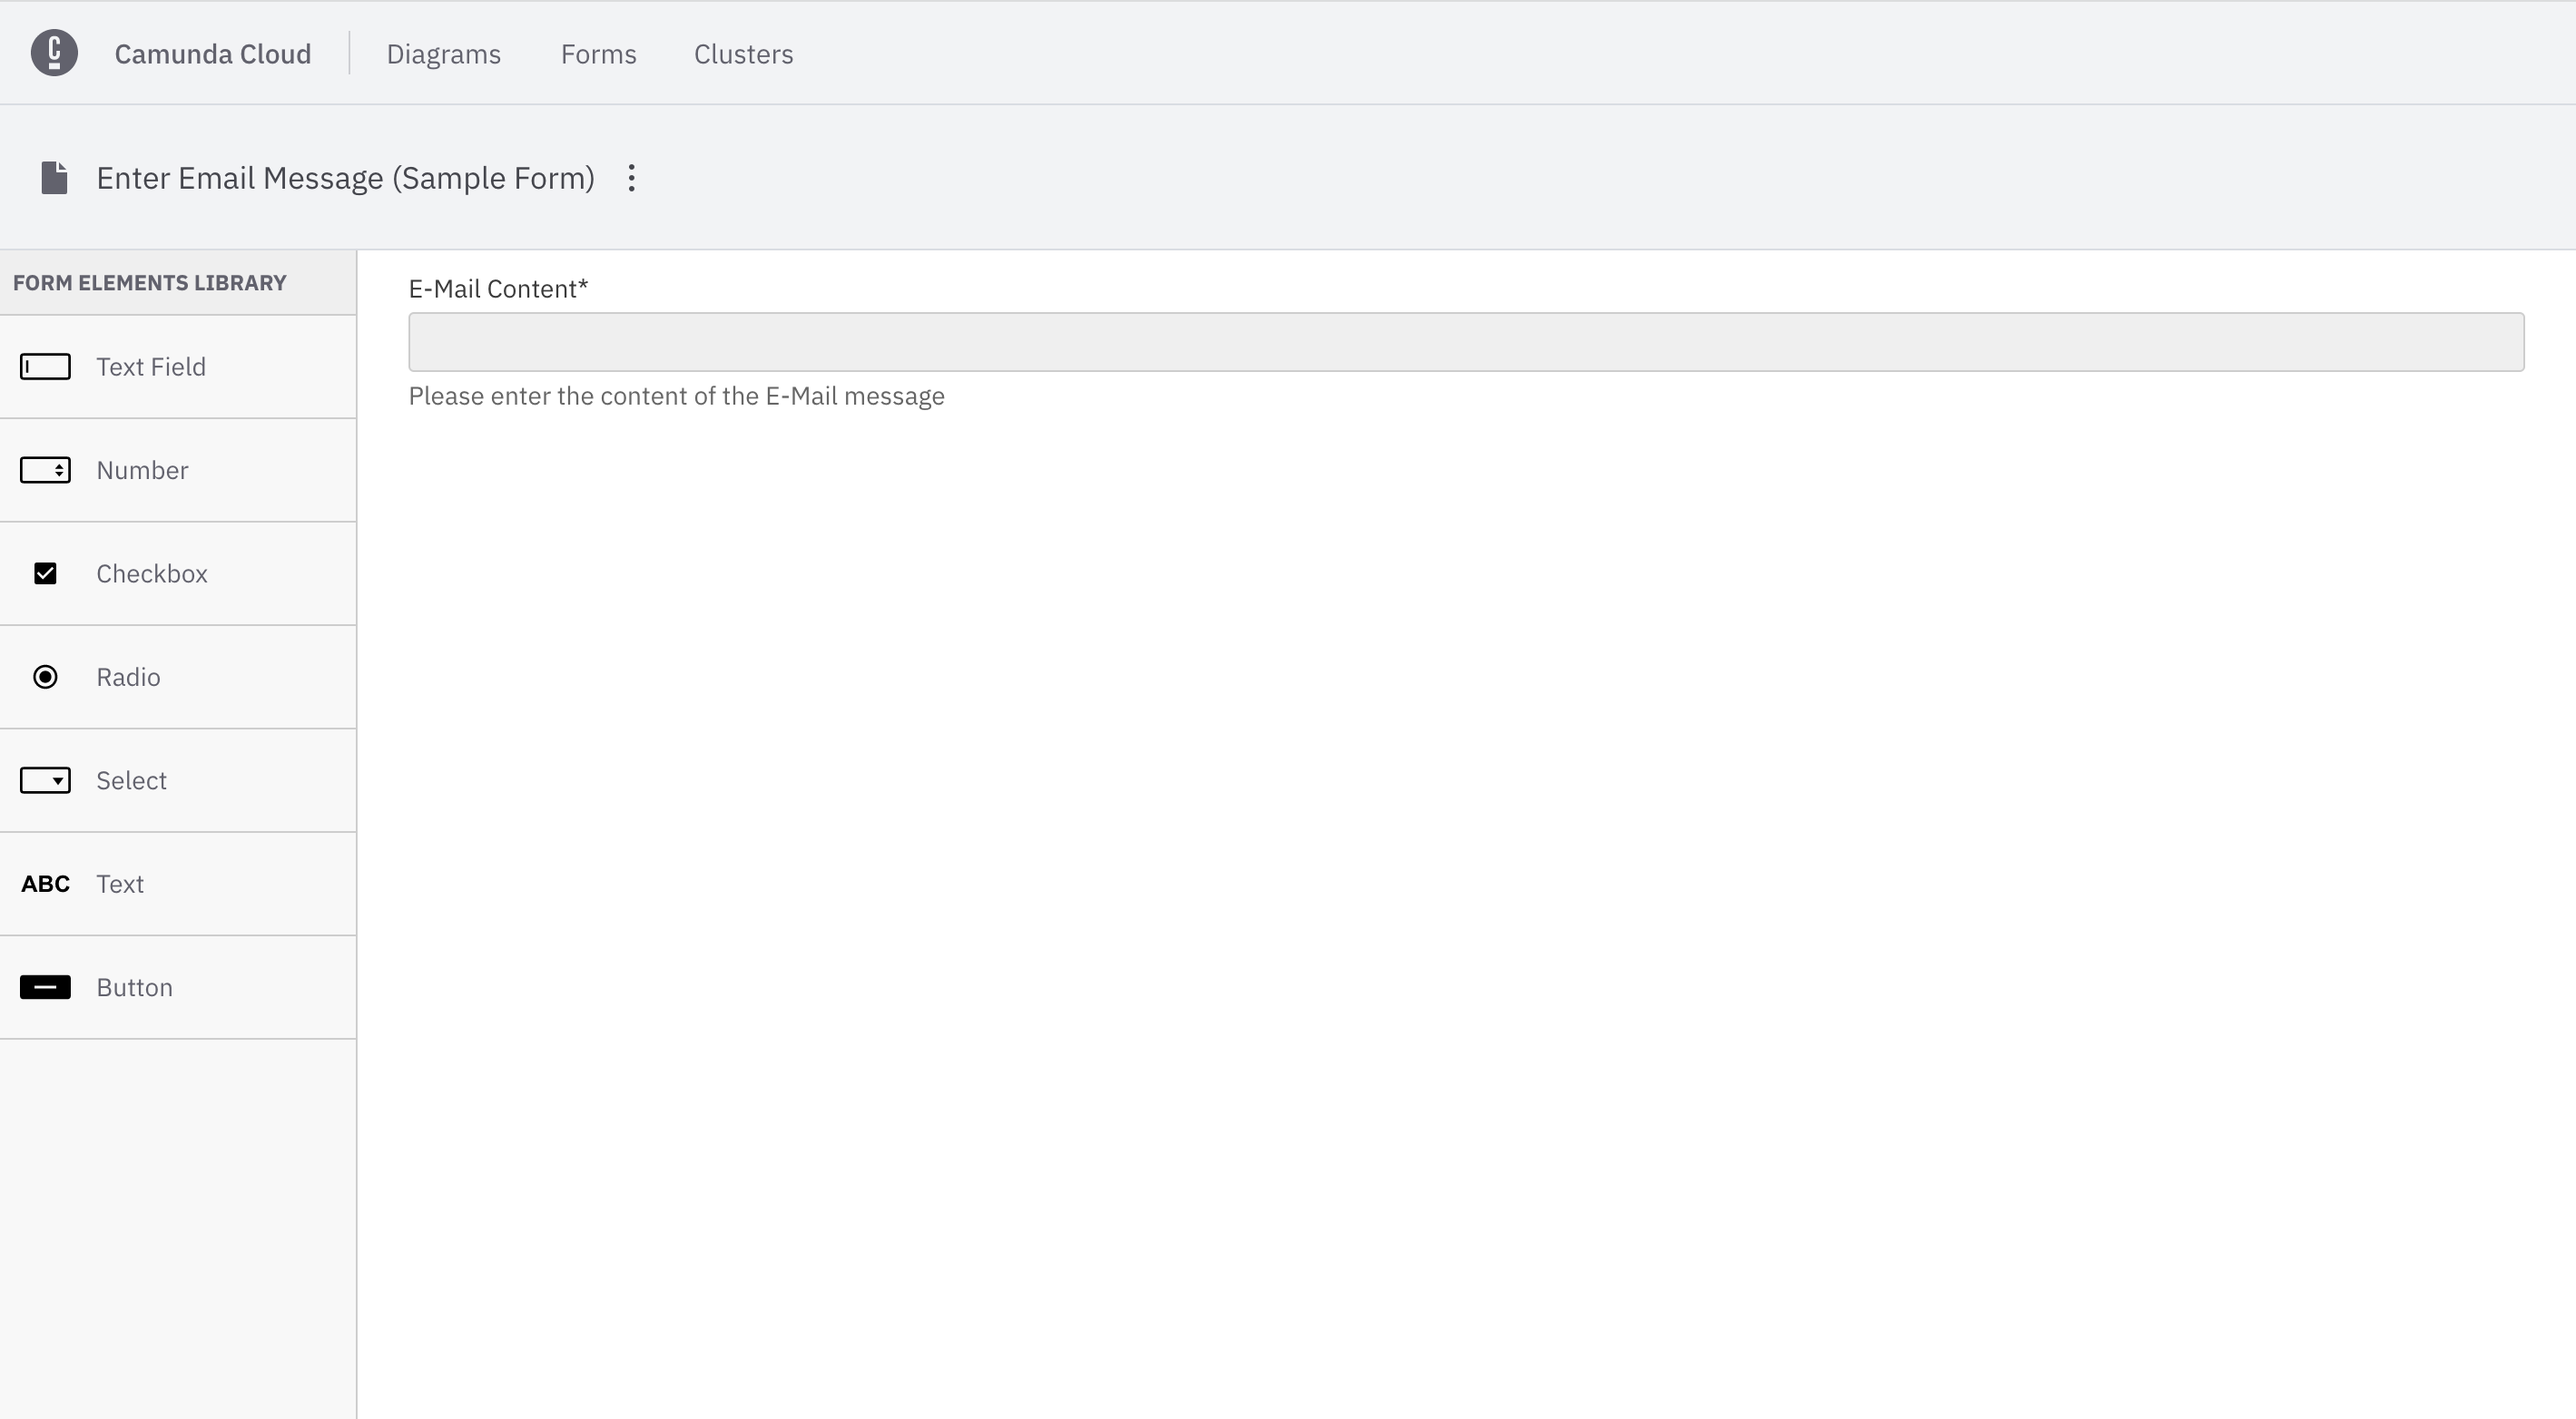
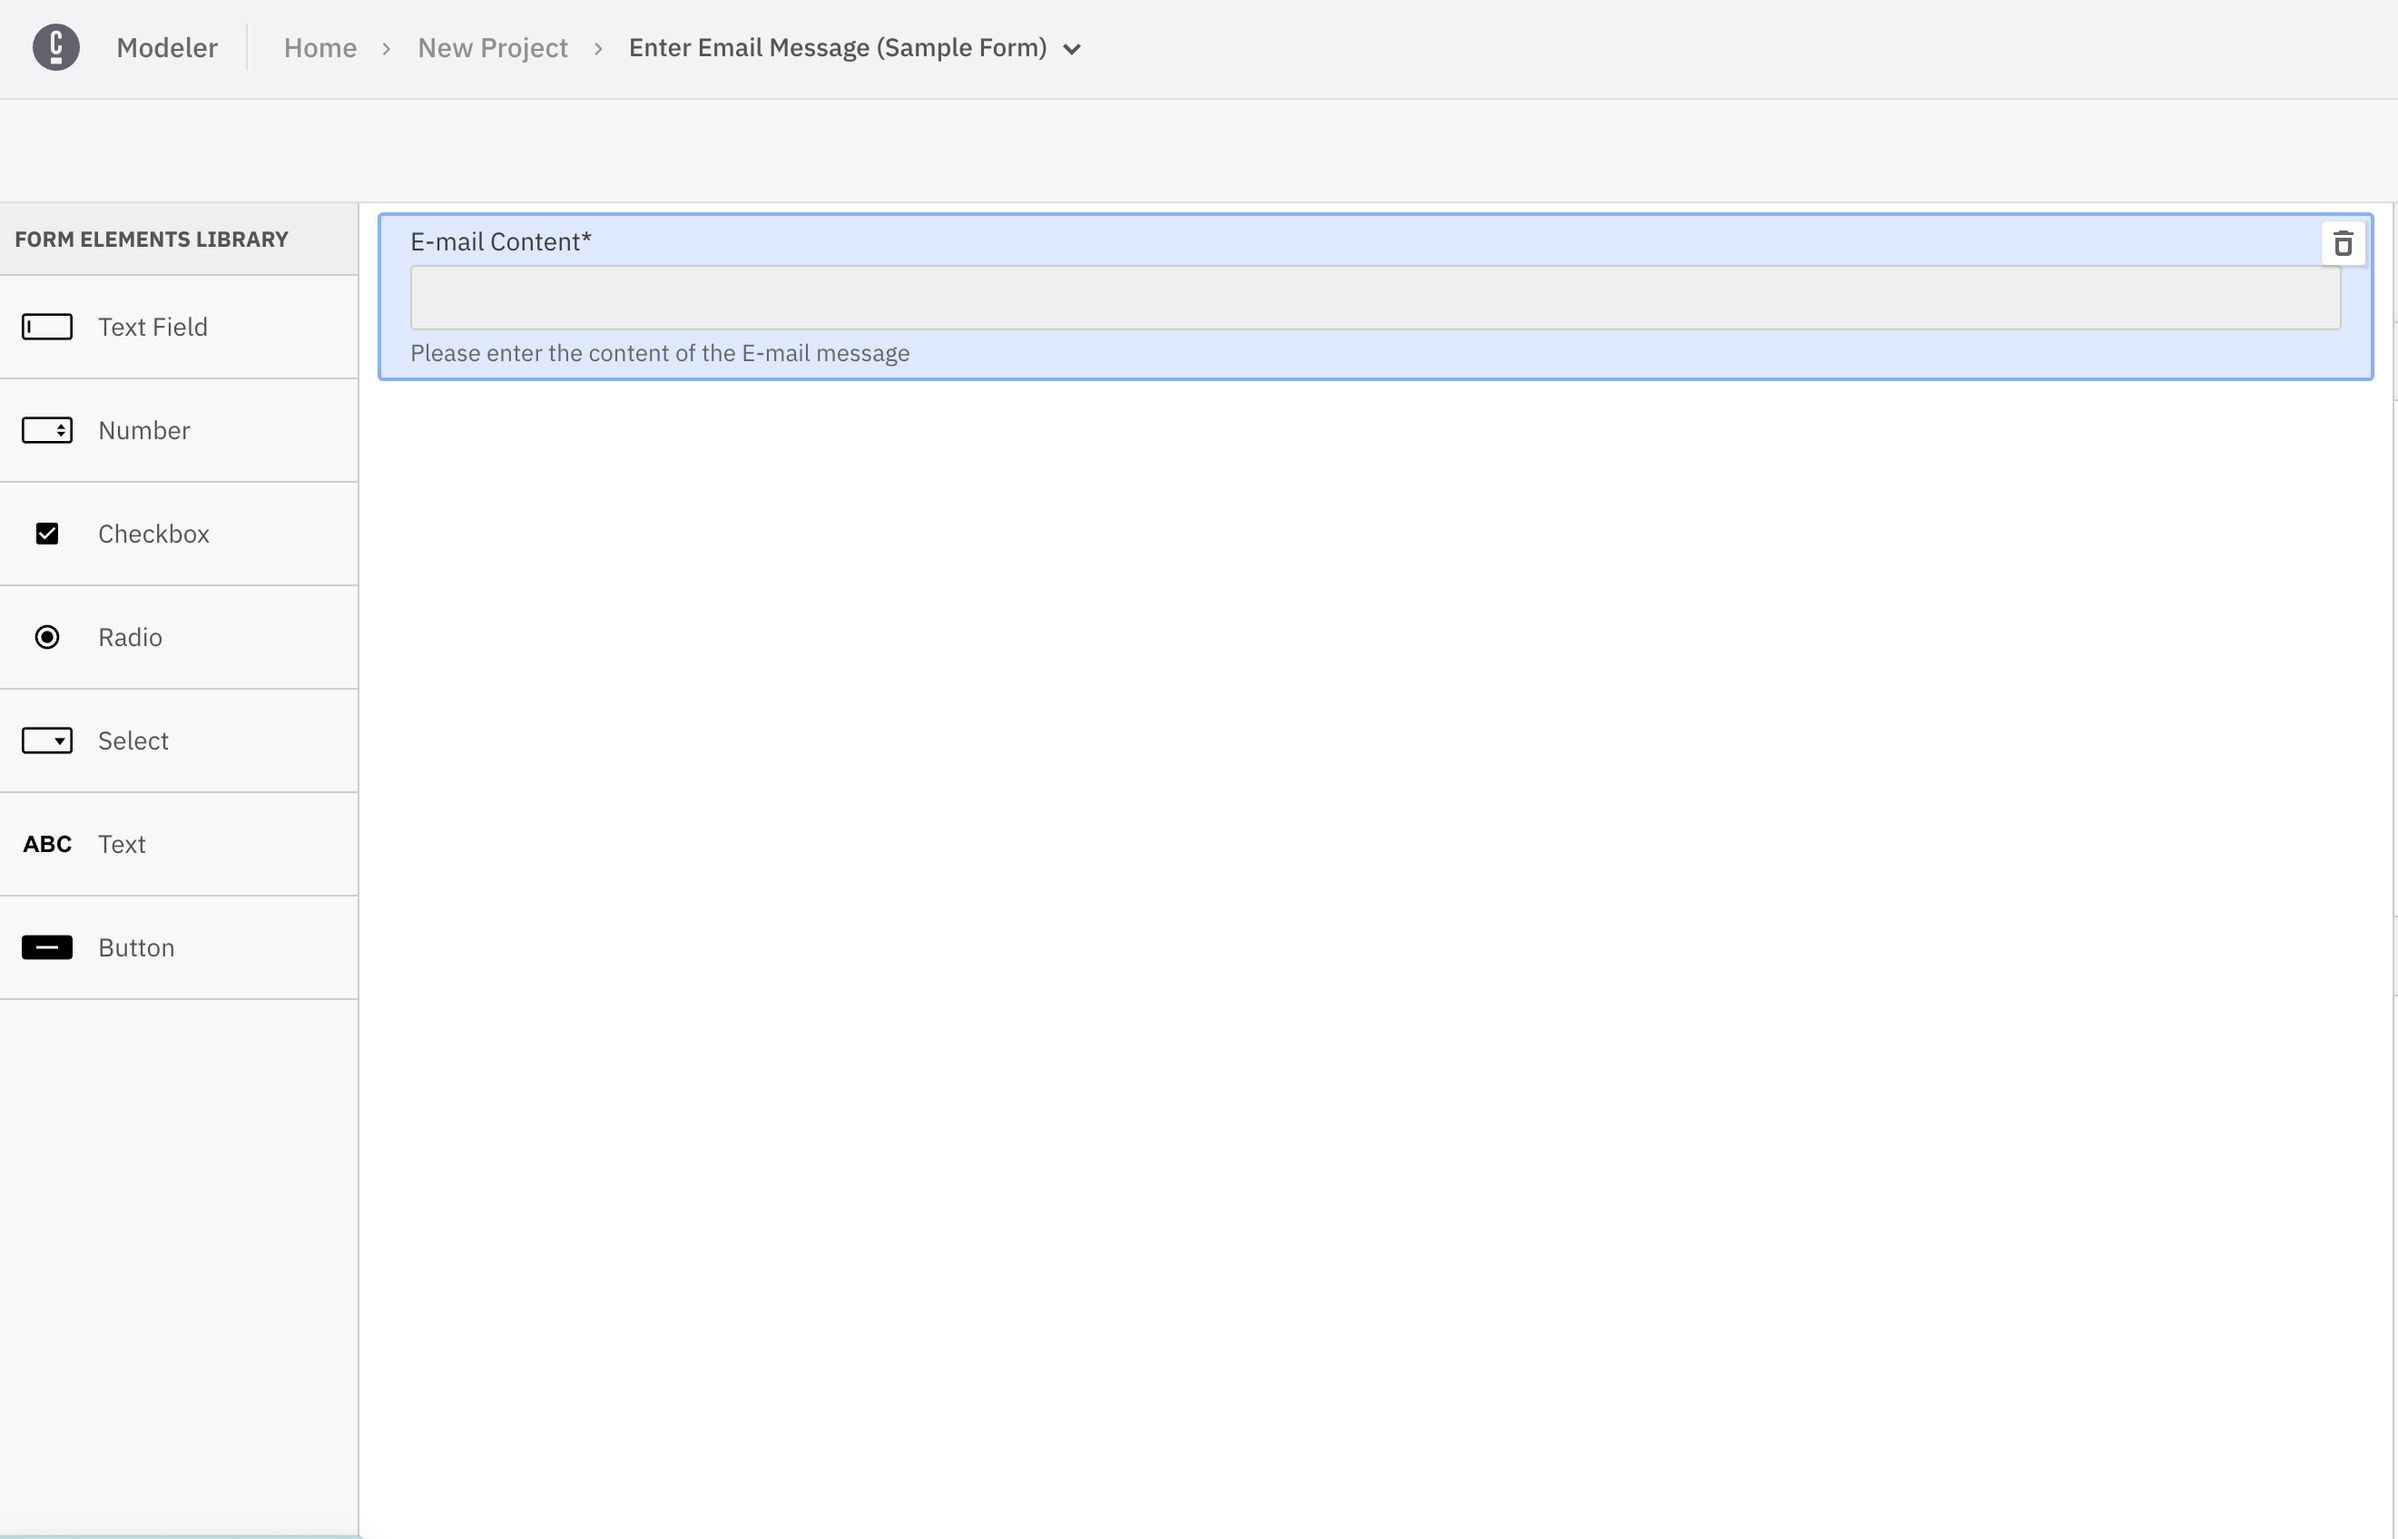
docs(web-modeler): rewrite utilizing-forms.md page and use updated imgs

diff --git a/docs/guides/utilizing-forms.md b/docs/guides/utilizing-forms.md
@@ -22,12 +22,13 @@ While you can incorporate Camunda Forms solely within Camunda Cloud, you can als
 
 To start building a form, log in to your [Camunda Cloud](./getting-started/create-camunda-cloud-account.md) account or open [Desktop Modeler](./components/modeler/about.md) and take the following steps:
 
-1. Click on the **Forms** tab at the top of the page or open the **File** menu in Modeler.
-2. Click the blue **Create New Form** button.
+1. Click on the **Modeler** tab at the top of the page or alternatively open the **File** menu in Desktop Modeler.
+2. Open any project from your Web Modeler home view
+3. Click the blue **New** button and choose **Form**
 
 ### Build your form
 
-Now you can start to build your Camunda form. First, let's name our form by clicking the three vertical dots next to the text reading **New Form** in the top left corner of the page. Select **Rename** to give your form a new name. In this example, we'll build a form to help with a task in obtaining an email message.
+Now you can start to build your Camunda form. Right after creating your form you can name it by simply replacing the **New Form** text with the name of your choice. In this example, we'll build a form to help with a task in obtaining an email message.
 
 ![form email example](./img/form-email-example.png)
 
@@ -49,7 +50,7 @@ Refer to the [Camunda Forms reference material](https://docs.camunda.org/manual/
 
 ### Save your form
 
-To save your form in Camunda Cloud, click the blue **Save** button in the top right corner of the page.
+To save your form in Camunda Cloud, you don't have to do anything. The Web Modeler will autosave every change you make.
 
 To save your form in Camunda Platform, click **File > Save File As...** in the top-level menu. Select a location on your file system to store the form as `.form` file. You can load that file again by clicking **File > Open File...**.
 
@@ -61,15 +62,15 @@ Next, let's implement a task form into a diagram. In tandem, we can connect your
 For Camunda Platform, refer to the [User Task Forms guide](https://docs.camunda.org/manual/latest/user-guide/task-forms/#camunda-forms) to learn how to implement a task form in your application.
 :::
 
-Click on the **Forms** tab in Camunda Cloud to view a list of all the forms you've created.
+Click on the **Modeler** tab at the top of the page and open any project from your Web Modeler home view.
 
 Take the following steps:
 
-1. Click the **Diagrams** tab at the top of the screen.
-2. Select the diagram where you'd like to apply your form.
-3. Select the user task requiring the help of a form.
-4. On the right side of the page, select the **Form** tab.
-5. Click **SELECT FORM** to incorporate the JSON configuration of the form you've built on Camunda Cloud.
+1. Select the diagram where you'd like to apply your form
+2. Select the user task requiring the help of a form
+3. On the right side of the selected user task, select the blue overlay with three white horizontal lines to open the navigation menu
+4. Navigate to the form you want to connect and click the blue **Import** button
+5. When a user task has a connected form, the blue overlay will always stay visible on the right side of the task
 
 :::note Submit button missing when you use Camunda Forms?
 When using Camunda Forms, any submit button present in the form schema is hidden so we can control when a user can complete a task.

diff --git a/docs/components/modeler/web-modeler/milestones.md b/docs/components/modeler/web-modeler/milestones.md
@@ -32,7 +32,7 @@ Hover over a milestone, click on the three dots menu and expand for more options
 ![milestones restore](img/milestones/web-modeler-milestone-restore-complete.png)
 
 
-### Diffing Milestones
+### Comparing Milestones
 Milestones can be compared visually. By enabling the diffing feature, the currently selected milestone will be compared to its predecessor.
 
 The differences that are highlighted are only those that affect the execution of the BPMN process. Pure visual changes like position changes are not highlighted.

diff --git a/docs/components/modeler/web-modeler/launch-cloud-modeler.md b/docs/components/modeler/web-modeler/launch-cloud-modeler.md
@@ -7,7 +7,7 @@ Since Web Modeler is embedded in the Camunda Cloud Console, it does not need to 
 
 To launch Web Modeler, follow the steps below:
 
-1. Go to the **Modeler** tab.
+1. Click on the **Modeler** tab at the top of the page
 ![cloud web modeler menu item](img/cloud-web-modeler-menu-item.png)
 
 2. Click **New Project** to create a new project to store all your diagrams
